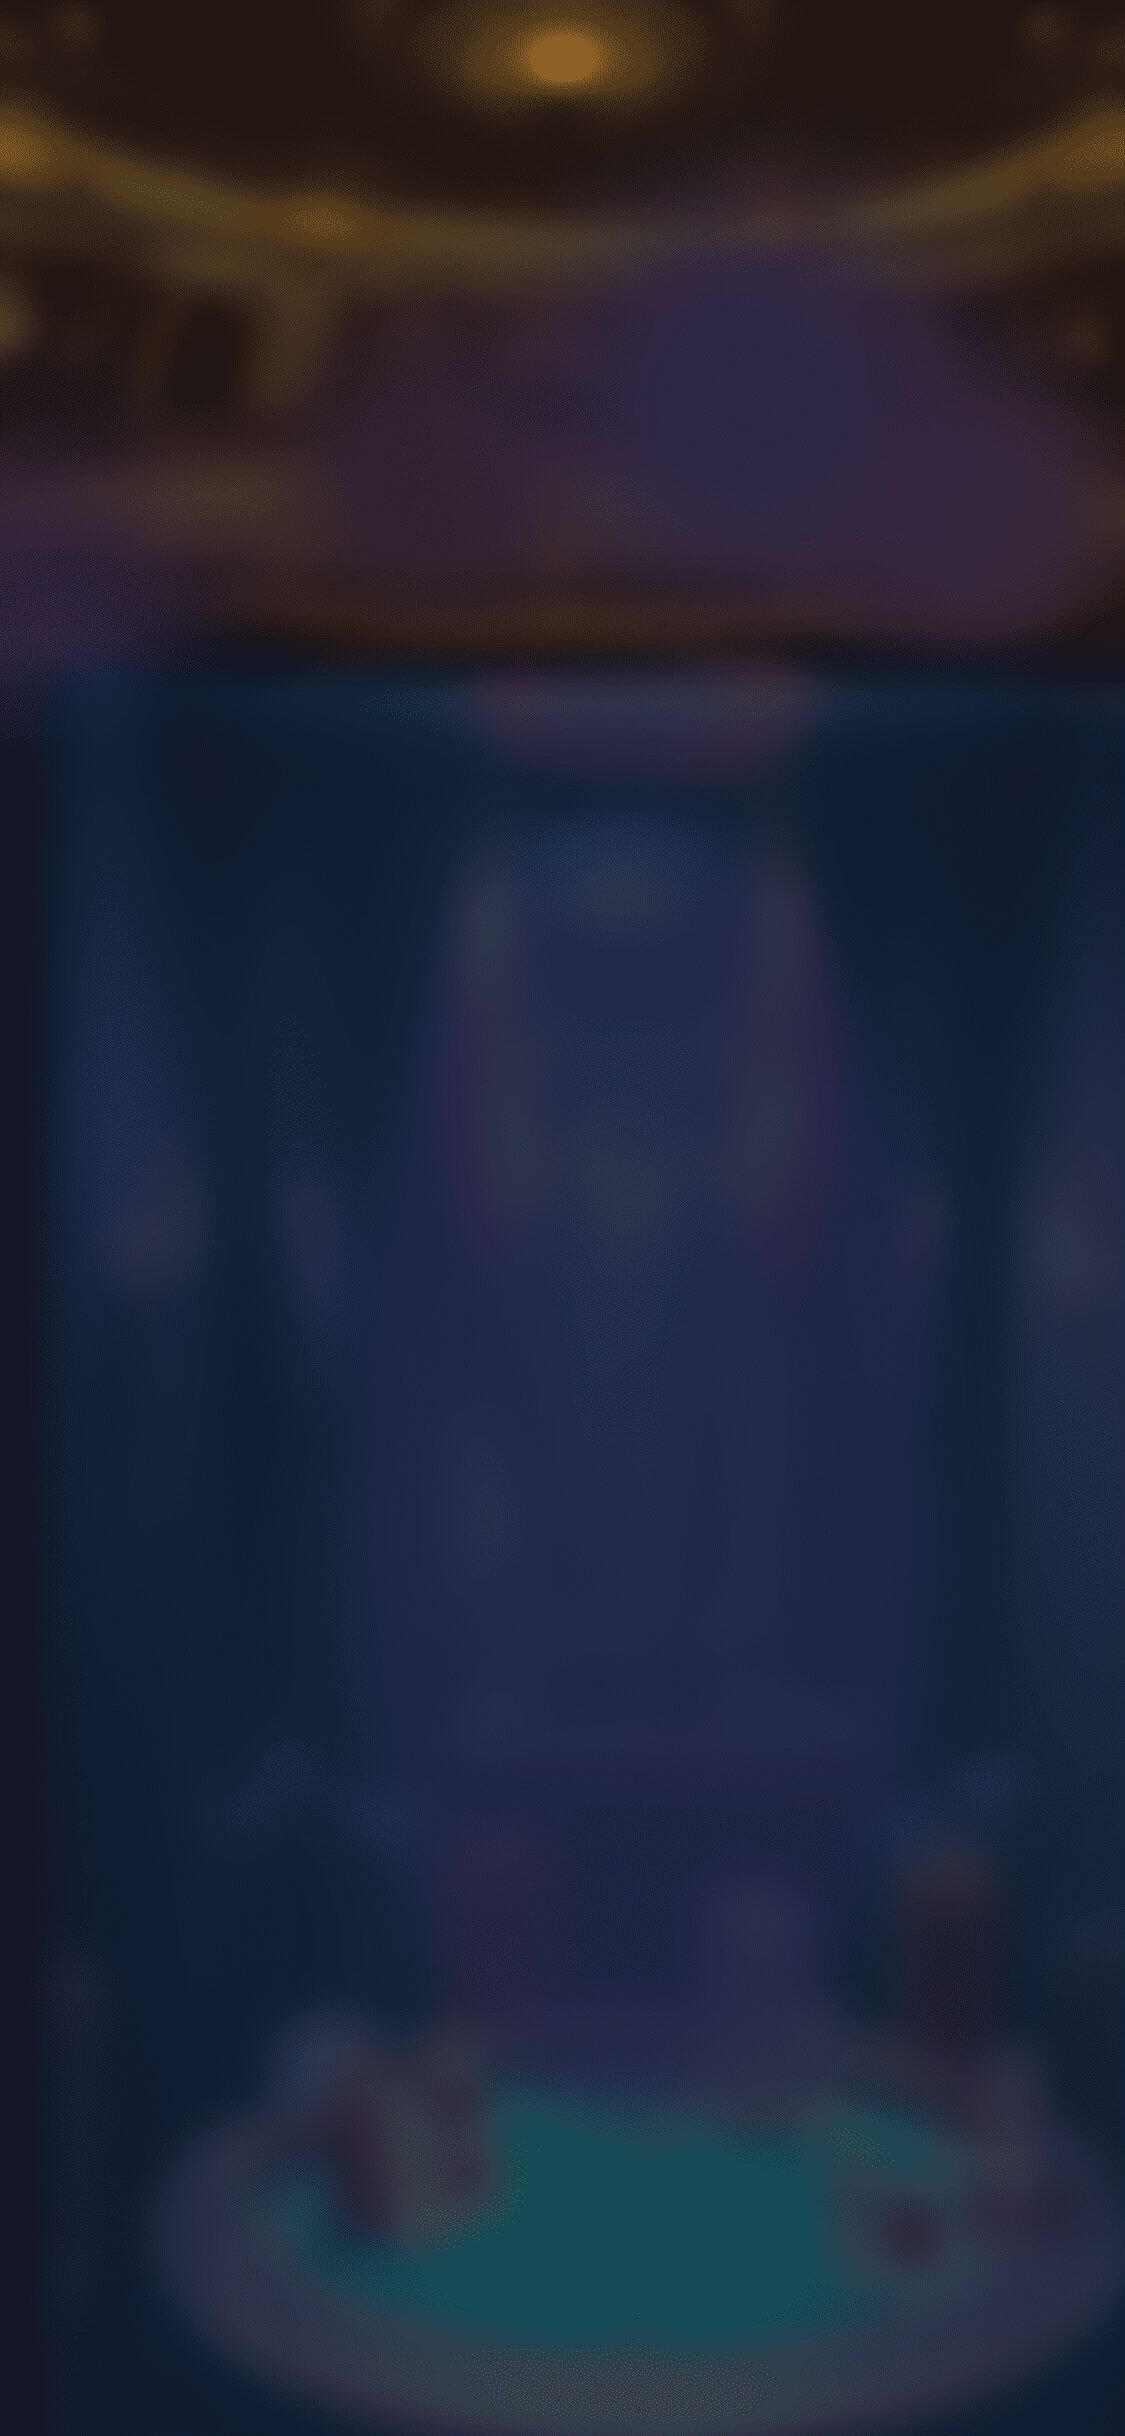
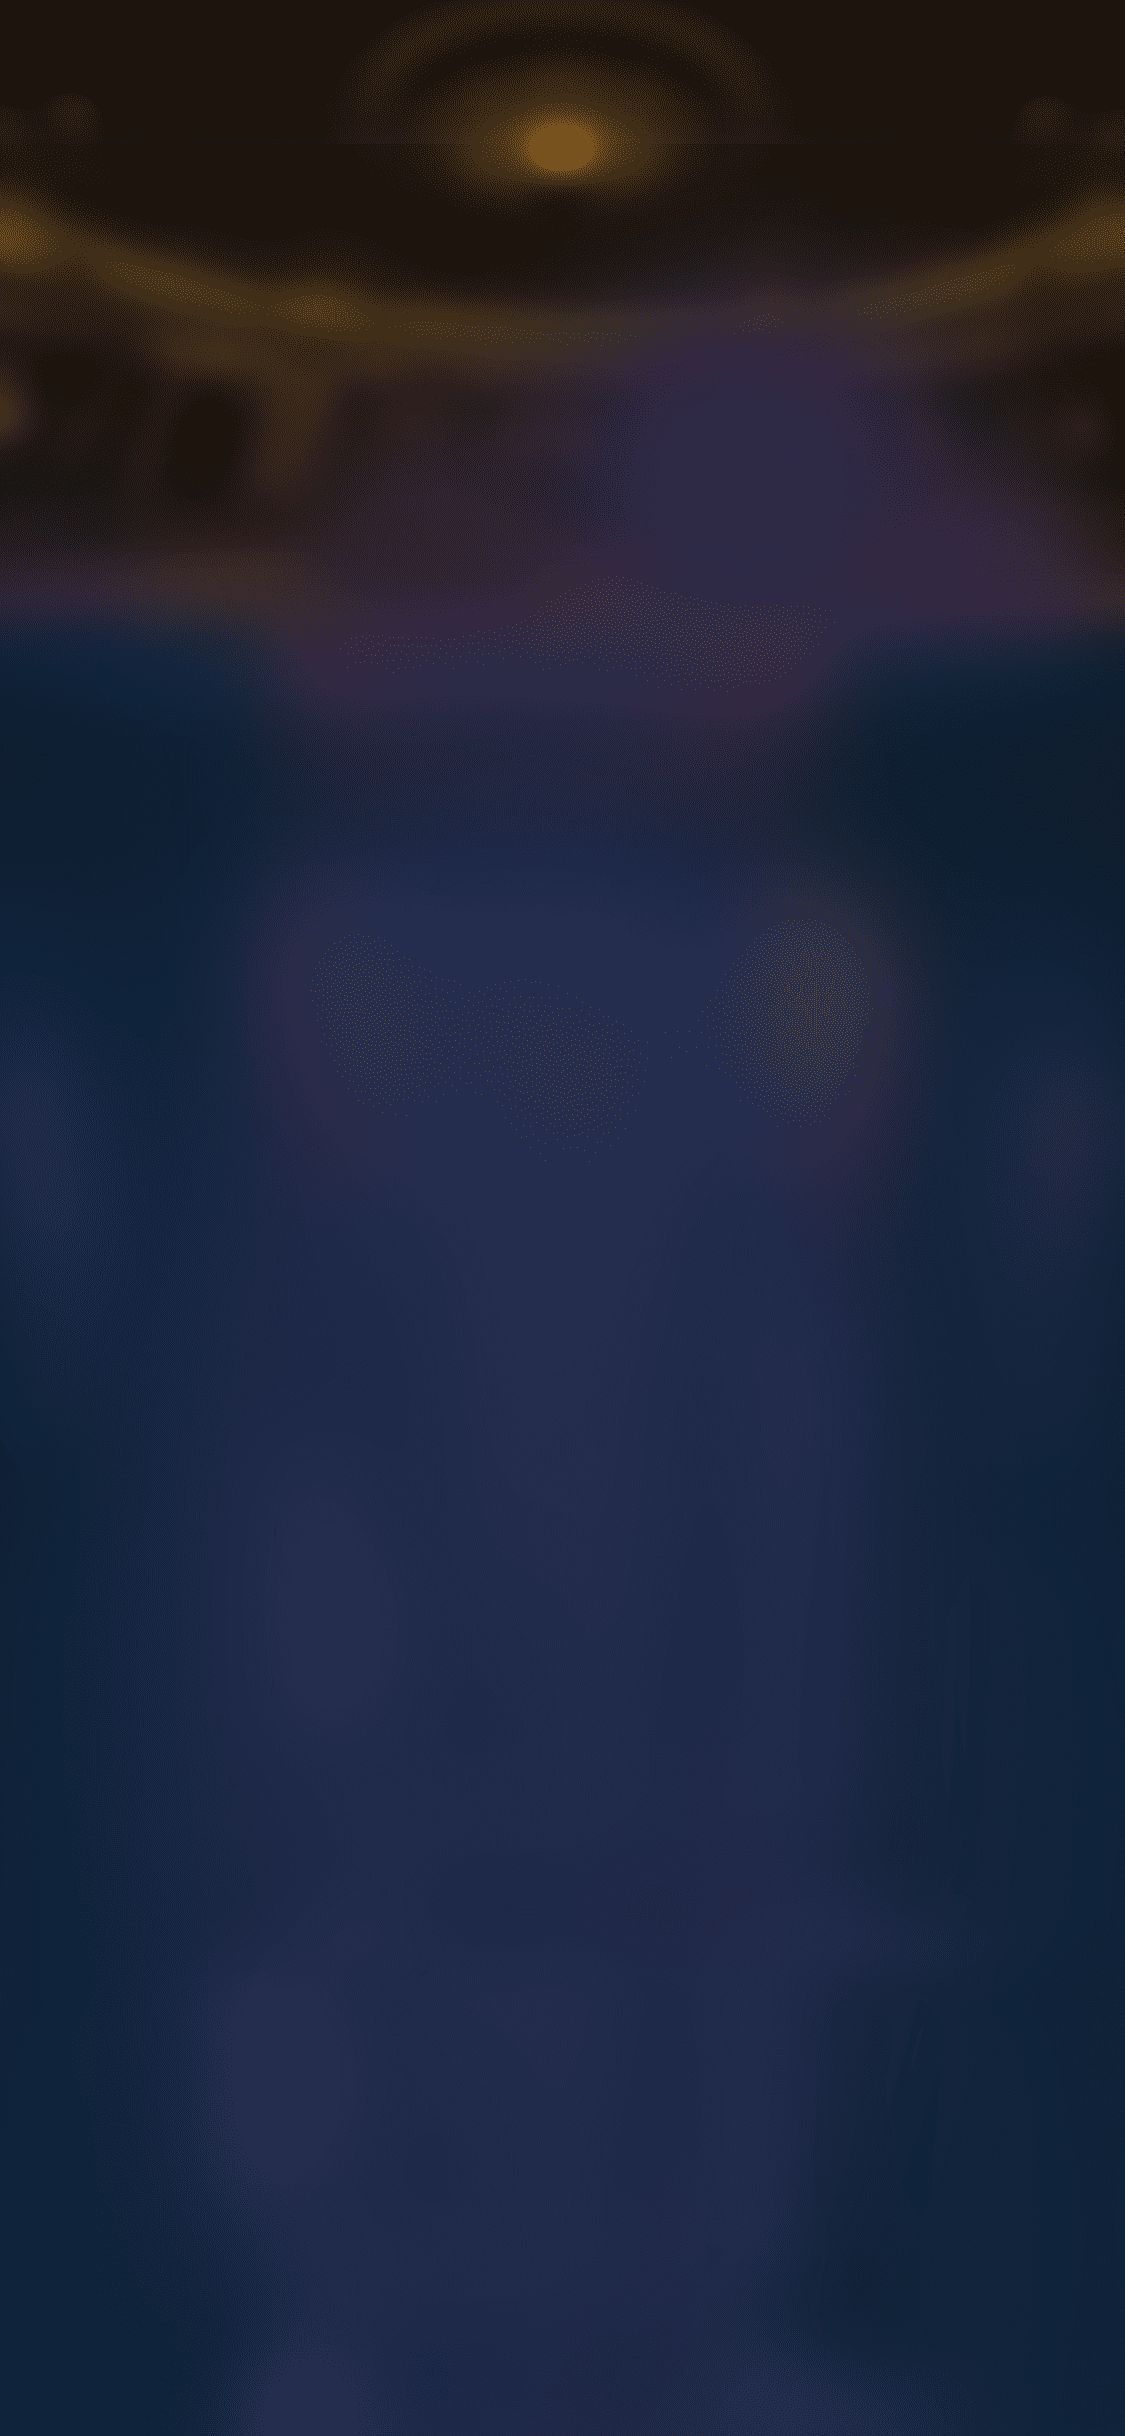
update logic

diff --git a/client/src/components/LobbyBackgroundAnimation.vue b/client/src/components/LobbyBackgroundAnimation.vue
@@ -1,0 +1,288 @@
+<script setup>
+import { ref, computed, onMounted, onUnmounted } from 'vue';
+
+// Backgrounds
+import bg0 from '@/assets/common/game_bg.jpg';
+import bg1 from '@/assets/common/game_bg_san.jpg';
+import bg2 from '@/assets/common/game_bg_zise.jpg';
+
+// Assets
+import defaultAvatar from '@/assets/common/default_avatar.png';
+import cardBack from '@/assets/common/card_back.png';
+import goldImg from '@/assets/common/gold.png';
+// Import some card images for showing
+import card0 from '@/assets/card/card_0.png';
+import card13 from '@/assets/card/card_13.png';
+import card26 from '@/assets/card/card_26.png';
+import card39 from '@/assets/card/card_39.png';
+import card10 from '@/assets/card/card_10.png';
+
+const props = defineProps({
+    mode: {
+        type: Number,
+        default: 0
+    }
+});
+
+const currentBg = computed(() => {
+    if (props.mode === 1) return bg1;
+    if (props.mode === 2) return bg2;
+    return bg0;
+});
+
+const players = ref([]);
+
+const generatePlayers = () => {
+    const count = Math.floor(Math.random() * 4) + 2; // 2 to 5 players
+    const newPlayers = [];
+    for (let i = 0; i < count; i++) {
+        // Distribute positions roughly in a semi-circle or random bottom area
+        let x = Math.random() * 80 + 10; // 10% to 90%
+        let y = Math.random() * 50 + 30; // 30% to 80% (keep away from top edge)
+        newPlayers.push({
+            id: i + Date.now(),
+            x,
+            y,
+            avatar: defaultAvatar,
+            action: null, // 'deal', 'show', 'gold'
+            cards: [],
+            golds: []
+        });
+    }
+    players.value = newPlayers;
+};
+
+// Action loops
+let animInterval;
+const cardImages = [card0, card13, card26, card39, card10];
+
+const triggerRandomAction = () => {
+    if (players.value.length === 0) return;
+    
+    // Pick 1 or 2 random players to act
+    const numActors = Math.floor(Math.random() * 2) + 1;
+    for (let i = 0; i < numActors; i++) {
+        const playerIndex = Math.floor(Math.random() * players.value.length);
+        const player = players.value[playerIndex];
+        
+        // Don't interrupt an ongoing action
+        if (player.action) continue;
+        
+        const actions = ['deal', 'show', 'gold'];
+        const action = actions[Math.floor(Math.random() * actions.length)];
+        
+        player.action = action;
+        
+        if (action === 'deal') {
+            player.cards = [1, 2, 3, 4, 5];
+            setTimeout(() => { player.action = null; player.cards = []; }, 2000);
+        } else if (action === 'show') {
+            // Randomly pick 5 cards to show
+            player.cards = Array.from({length: 5}, () => cardImages[Math.floor(Math.random() * cardImages.length)]);
+            setTimeout(() => { player.action = null; player.cards = []; }, 2500);
+        } else if (action === 'gold') {
+            // Generate some random positions for gold
+            player.golds = Array.from({length: 6}, (_, i) => ({
+                id: i,
+                delay: Math.random() * 0.5,
+                x: Math.random() * 2 - 1, // -1 to 1
+                y: Math.random() * 2 - 1
+            }));
+            setTimeout(() => { player.action = null; player.golds = []; }, 1500);
+        }
+    }
+};
+
+onMounted(() => {
+    generatePlayers();
+    animInterval = setInterval(() => {
+        triggerRandomAction();
+        // Randomly regenerate players (someone leaves/joins)
+        if (Math.random() < 0.15) {
+            generatePlayers();
+        }
+    }, 1500); // Check every 1.5 seconds
+});
+
+onUnmounted(() => {
+    clearInterval(animInterval);
+});
+
+</script>
+
+<template>
+    <div class="lobby-anim-wrapper">
+        <div class="bg-container" :style="{ backgroundImage: `url(${currentBg})` }">
+            <div class="players-container">
+                <!-- A subtle central 'dealer' or pot area implied by animation start point -->
+                <div class="dealer-pos"></div>
+
+                <div v-for="player in players" :key="player.id" class="player-pos" :style="{ left: player.x + '%', top: player.y + '%' }">
+                    <img :src="player.avatar" class="avatar-img" />
+                    
+                    <!-- Dealing Cards (flying from center top to player) -->
+                    <div v-if="player.action === 'deal'" class="anim-deal">
+                        <img v-for="c in player.cards" :key="c" :src="cardBack" class="card-back flying-card" :style="{ animationDelay: (c * 0.1) + 's' }" />
+                    </div>
+                    
+                    <!-- Showing Cards (fan out near player) -->
+                    <div v-if="player.action === 'show'" class="anim-show">
+                        <img v-for="(card, i) in player.cards" :key="i" :src="card" class="card-front" />
+                    </div>
+                    
+                    <!-- Throwing Gold -->
+                    <div v-if="player.action === 'gold'" class="anim-gold">
+                        <img v-for="g in player.golds" :key="g.id" :src="goldImg" class="flying-gold" :style="{ animationDelay: g.delay + 's', '--rand-x': g.x, '--rand-y': g.y }" />
+                    </div>
+                </div>
+            </div>
+        </div>
+    </div>
+</template>
+
+<style scoped>
+.lobby-anim-wrapper {
+    position: absolute;
+    bottom: 20px; /* Slight offset from bottom */
+    left: 50%;
+    transform: translateX(-50%);
+    width: 50vw;
+    height: 30vh;
+    border-radius: 15px;
+    overflow: hidden;
+    z-index: 0;
+    box-shadow: 0 4px 15px rgba(0,0,0,0.5);
+    border: 2px solid rgba(255, 255, 255, 0.1);
+}
+
+.bg-container {
+    position: absolute;
+    top: 0;
+    left: 0;
+    width: 100%;
+    height: 100%;
+    background-size: cover;
+    background-position: center;
+}
+
+.players-container {
+    position: relative;
+    width: 100%;
+    height: 100%;
+}
+
+.dealer-pos {
+    position: absolute;
+    top: -20%;
+    left: 50%;
+    width: 1px;
+    height: 1px;
+}
+
+.player-pos {
+    position: absolute;
+    width: 36px;
+    height: 36px;
+    transform: translate(-50%, -50%);
+    z-index: 10;
+}
+
+.avatar-img {
+    width: 100%;
+    height: 100%;
+    border-radius: 50%;
+    border: 2px solid #e0e0e0;
+    box-shadow: 0 2px 5px rgba(0,0,0,0.5);
+}
+
+/* Animations */
+.anim-deal {
+    position: absolute;
+    top: 0;
+    left: 0;
+    width: 100%;
+    height: 100%;
+    z-index: 11;
+}
+
+.flying-card {
+    position: absolute;
+    width: 18px;
+    height: auto;
+    opacity: 0;
+    /* Start position relative to player, simulating coming from top-center of container */
+    /* Because parent is .player-pos, we use a fixed transform for origin to simulate a central dealer */
+    transform: translate(calc(-1 * var(--x, 0px)), calc(-1 * var(--y, 0px))) scale(0.5);
+    animation: flyInCard 0.4s cubic-bezier(0.25, 0.8, 0.25, 1) forwards;
+}
+
+/* We'll calculate a pseudo origin for flyInCard in CSS by roughly assuming dealer is at 0, -150px relative to player */
+@keyframes flyInCard {
+    0% {
+        transform: translate(0px, -150px) scale(0.5) rotate(180deg);
+        opacity: 0;
+    }
+    50% {
+        opacity: 1;
+    }
+    100% {
+        transform: translate(10px, 10px) scale(1) rotate(0deg);
+        opacity: 1;
+    }
+}
+
+.anim-show {
+    position: absolute;
+    top: -15px;
+    left: 20px;
+    display: flex;
+    z-index: 12;
+}
+
+.card-front {
+    width: 18px;
+    height: auto;
+    margin-left: -12px; /* Overlap cards heavily */
+    opacity: 0;
+    transform-origin: bottom center;
+    animation: popCard 0.4s cubic-bezier(0.175, 0.885, 0.32, 1.275) forwards;
+}
+.card-front:first-child { margin-left: 0; }
+.card-front:nth-child(1) { animation-delay: 0.0s; transform: rotate(-20deg); }
+.card-front:nth-child(2) { animation-delay: 0.1s; transform: rotate(-10deg); }
+.card-front:nth-child(3) { animation-delay: 0.2s; transform: rotate(0deg); }
+.card-front:nth-child(4) { animation-delay: 0.3s; transform: rotate(10deg); }
+.card-front:nth-child(5) { animation-delay: 0.4s; transform: rotate(20deg); }
+
+@keyframes popCard {
+    0% { transform: translateY(10px) scale(0.5) rotate(0deg); opacity: 0; }
+    100% { opacity: 1; } /* Uses base transform from nth-child */
+}
+
+.anim-gold {
+    position: absolute;
+    top: 50%;
+    left: 50%;
+    z-index: 15;
+}
+
+.flying-gold {
+    position: absolute;
+    width: 16px;
+    height: 16px;
+    opacity: 0;
+    animation: flyGold 0.8s ease-out forwards;
+}
+
+@keyframes flyGold {
+    0% {
+        transform: translate(0, 0) scale(0.5);
+        opacity: 1;
+    }
+    100% {
+        /* fly outwards based on random x/y variables */
+        transform: translate(calc(var(--rand-x) * 60px), calc(var(--rand-y) * 60px - 20px)) scale(1.2);
+        opacity: 0;
+    }
+}
+</style>

diff --git a/client/src/views/LobbyView.vue b/client/src/views/LobbyView.vue
@@ -11,6 +11,7 @@ import gameClient from '../socket.js';
 import HistoryModal from '../components/HistoryModal.vue';
 import SettingsModal from '../components/SettingsModal.vue';
 import HelpModal from '../components/HelpModal.vue';
+import LobbyBackgroundAnimation from '../components/LobbyBackgroundAnimation.vue';
 
 // Assets
 import bgImg from '@/assets/lobby/bg.jpg';
@@ -451,6 +452,11 @@ const goBack = () => {
             </div>
         </div>
 
+        <LobbyBackgroundAnimation :mode="currentMode" />
+
+        <!-- Full screen glass overlay -->
+        <div class="lobby-full-glass"></div>
+
         <!-- Bottom Tabs Area (Temporarily Disabled) -->
         <!--
         <div class="bottom-area-container">
@@ -514,6 +520,18 @@ const goBack = () => {
     pointer-events: none;
     /* Let clicks pass through */
     animation: floatBg 15s infinite ease-in-out alternate;
+}
+
+.lobby-full-glass {
+    position: absolute;
+    top: 0;
+    left: 0;
+    width: 100%;
+    height: 100%;
+    backdrop-filter: blur(6px); /* Frosted glass effect */
+    background: linear-gradient(to bottom, rgba(0,0,0,0.1), rgba(0,0,0,0.4));
+    pointer-events: none;
+    z-index: 0;
 }
 
 @keyframes floatBg {

diff --git a/client/components.d.ts b/client/components.d.ts
@@ -16,6 +16,7 @@ declare module 'vue' {
     HistoryModal: typeof import('./src/components/HistoryModal.vue')['default']
     HistoryPokerCard: typeof import('./src/components/HistoryPokerCard.vue')['default']
     HostingModal: typeof import('./src/components/HostingModal.vue')['default']
+    LobbyBackgroundAnimation: typeof import('./src/components/LobbyBackgroundAnimation.vue')['default']
     LoseAnimation: typeof import('./src/components/LoseAnimation.vue')['default']
     NiuBadge: typeof import('./src/components/NiuBadge.vue')['default']
     PlayerSeat: typeof import('./src/components/PlayerSeat.vue')['default']
